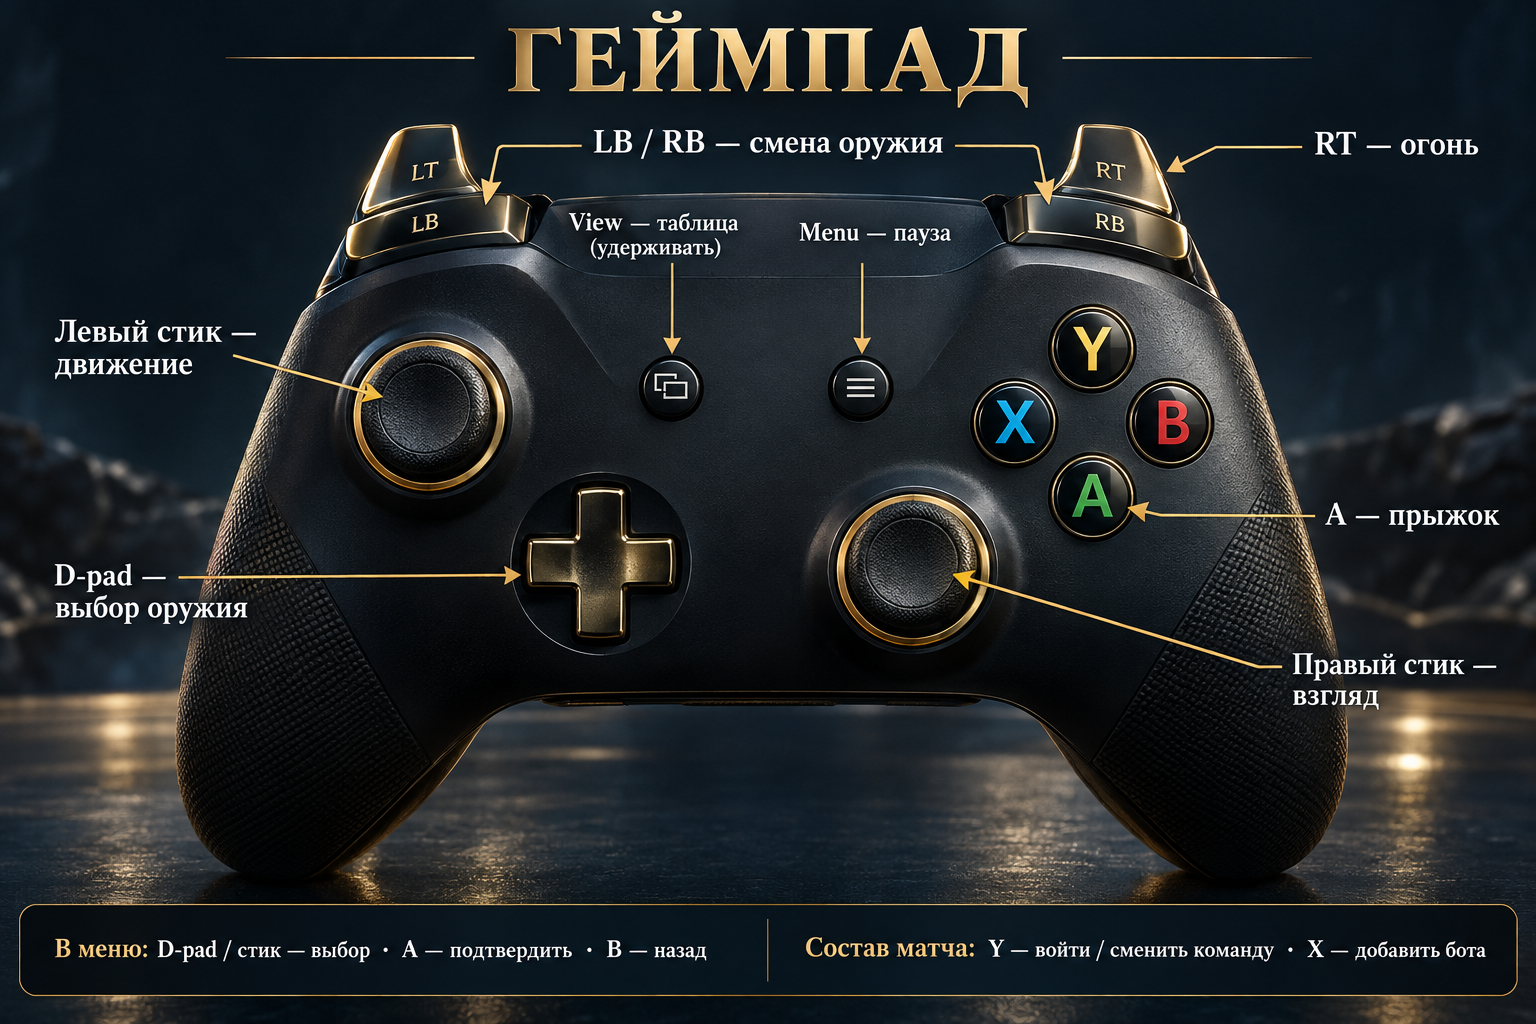
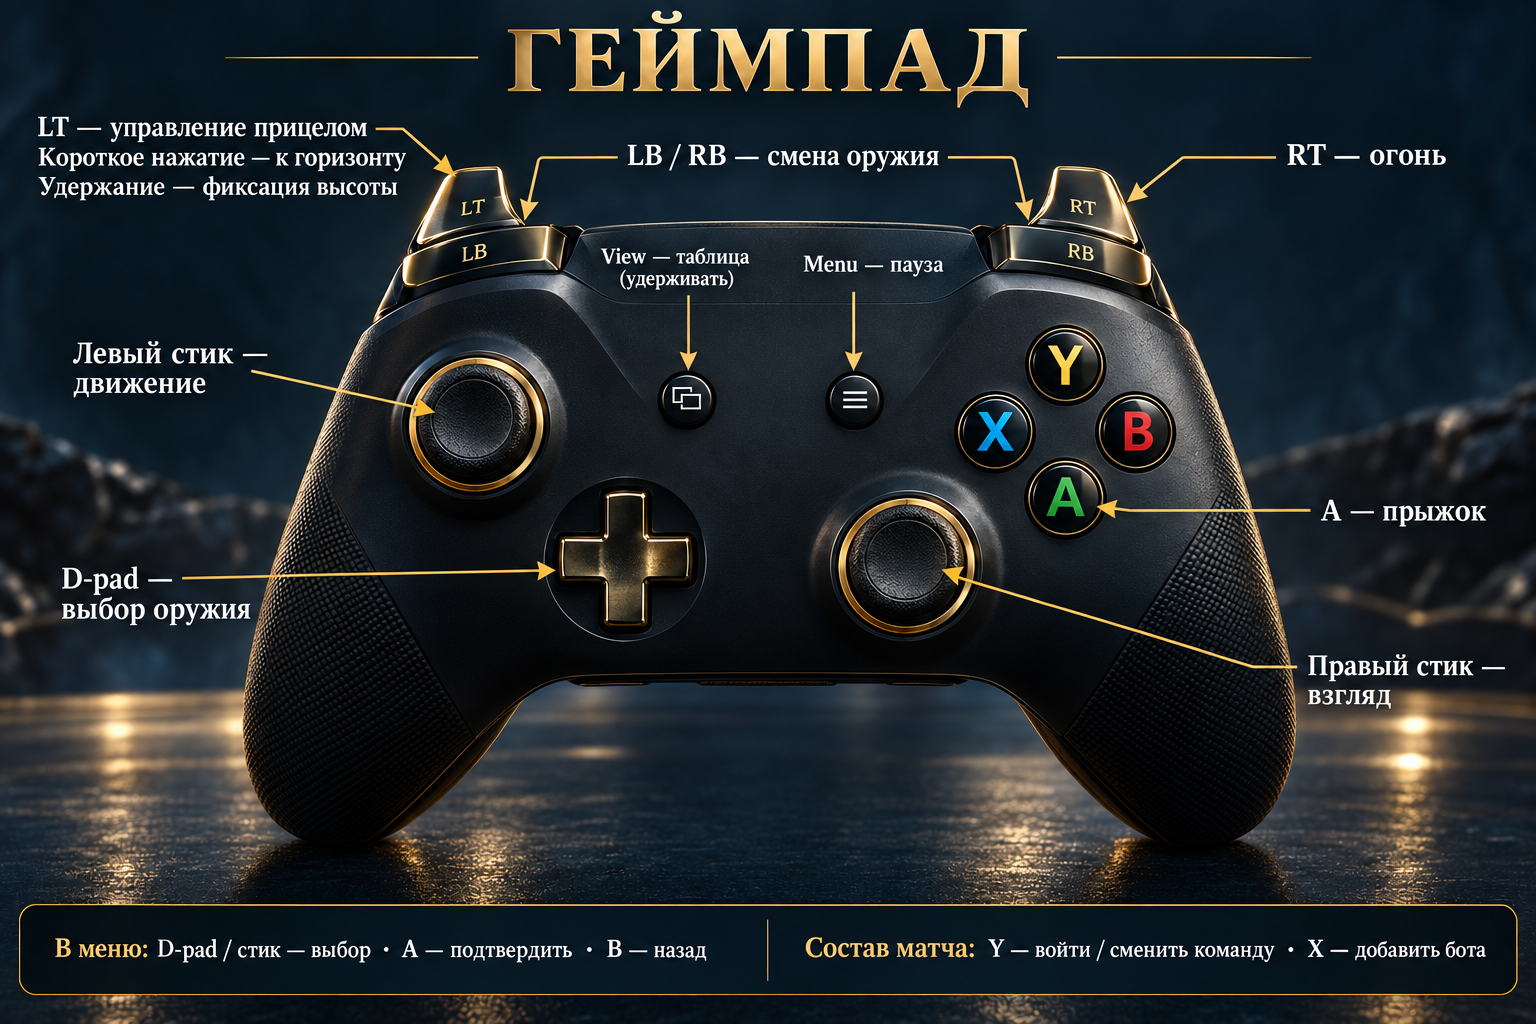
Regenerate gamepad settings diagram with LT controls

diff --git a/docs/evidence/gamepad-trigger-aim-control/README.md b/docs/evidence/gamepad-trigger-aim-control/README.md
@@ -11,3 +11,5 @@ PlayMode использует поддерживаемый STAR_TOURNAMENT_QA_LA
 Снимок показывает новую подпись под полной схемой геймпада; прежняя строка управления меню читается. Метка Development Build принадлежит Editor-сценарию и не означает сборку Player.
 
 Открыты: удобство с физическим геймпадом, human acceptance, native Player/device acceptance. Player/release/build/publication остаются отложенными до отдельной команды по решению08.10.2026. Аудио QA не затронуто; Editor был заглушён штатным muteReview.
+
+09.10.2026: по команде пользователя перегенерирован Resources/UI/help-gamepad.png: подсказка LT включена прямо в схему. Prompt, SHA256 и статическая проверка: help-image-regeneration.json. Снимок Editor выше относится к предыдущей версии ассета; новый PNG имеет тот же размер, layout/runtime не менялись. После замены Editor/Player не запускался.
